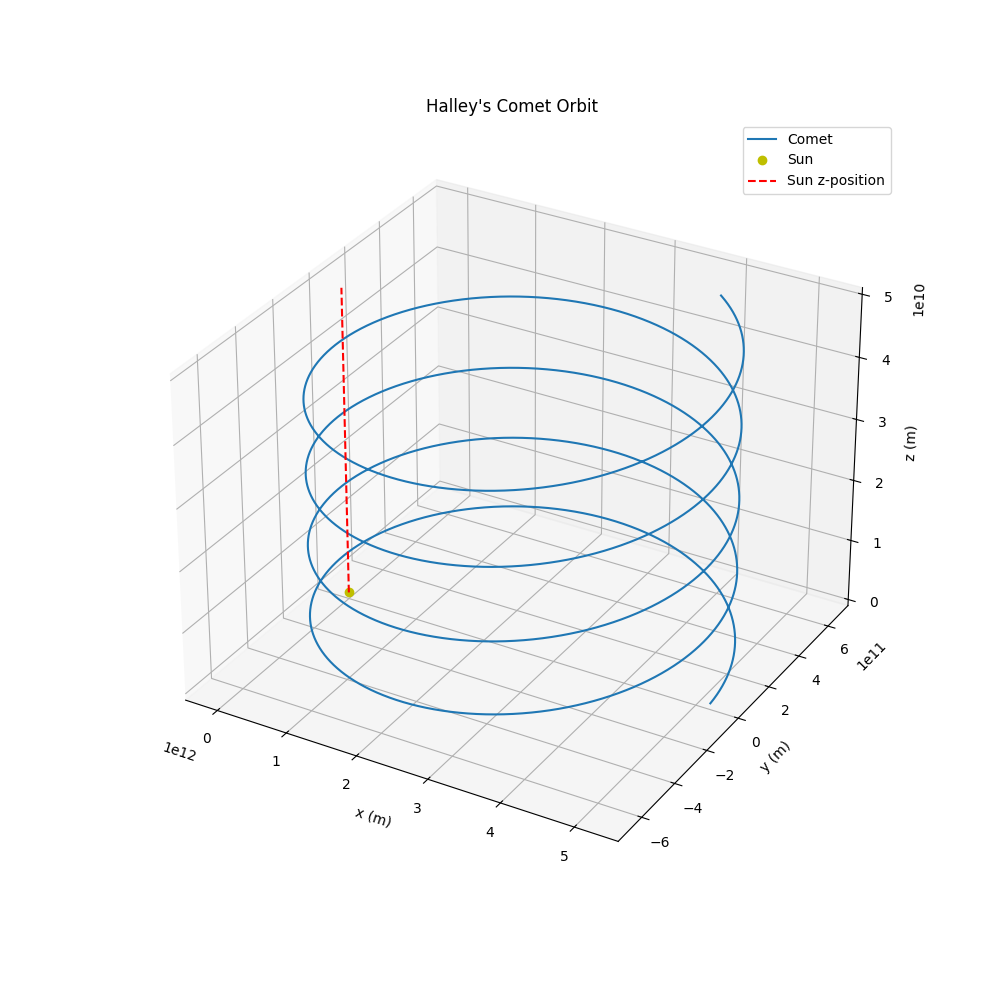
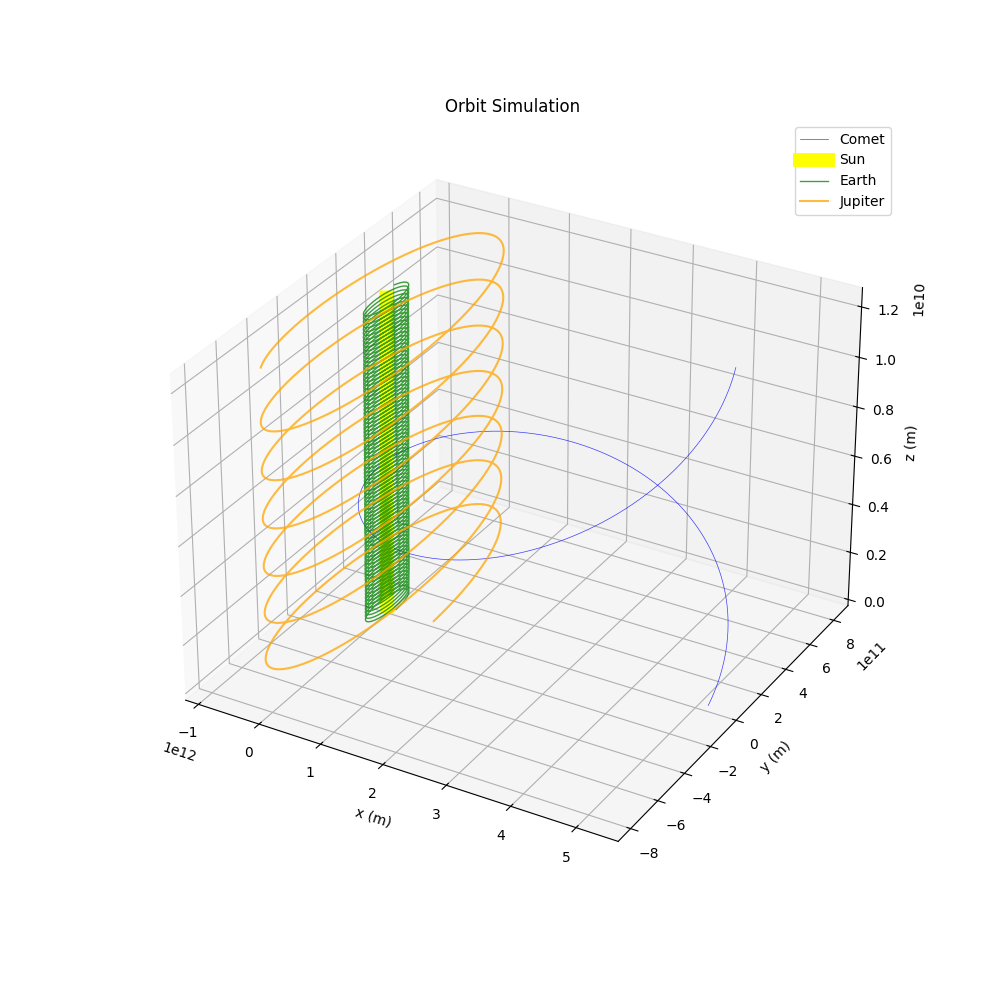
multiple

diff --git a/Coursework1/Courswork1MultipleObjects.py b/Coursework1/Courswork1MultipleObjects.py
@@ -1,0 +1,168 @@
+import numpy as np
+import matplotlib.pyplot as plt
+from mpl_toolkits.mplot3d import Axes3D
+from tqdm import tqdm
+
+def calculate_orbit(objects, initial_time_step=100, min_time_step=2000, max_steps=10000001, tolerance=1e-6):
+      '''
+      Calculate the orbit of multiple objects in 3D space.
+      @param objects: A list of dictionaries, each containing the
+            name, mass, initial x, y, z positions, initial
+            x, y, z velocities of an object.
+      @param initial_time_step: The initial time step for the simulation.
+      @param min_time_step: The minimum time step for the simulation.
+      @param max_steps: The maximum number of steps to simulate.
+      @param tolerance: The tolerance for the simulation.
+      @return: A dictionary containing the positions of each object
+            at each time step, the time at each step, and the time    
+            at which each object crosses the y-axis.
+      '''
+      # Defining constants
+      G = 6.67430e-11  
+
+      # Initialise arrays for each object
+      positions = {obj['name']: {'x': np.zeros(max_steps), 'y': np.zeros(max_steps), 'z': np.zeros(max_steps)} for obj in objects}
+      velocities = {obj['name']: {'x': np.zeros(max_steps), 'y': np.zeros(max_steps), 'z': np.zeros(max_steps)} for obj in objects}
+      time = np.zeros(max_steps)
+      
+      # Object initial conditions
+      for obj in objects:
+            positions[obj['name']]['x'][0] = obj['initial_x']
+            positions[obj['name']]['y'][0] = obj['initial_y']
+            positions[obj['name']]['z'][0] = obj['initial_z']
+            velocities[obj['name']]['x'][0] = 0
+            velocities[obj['name']]['y'][0] = obj['initial_velocity']
+            velocities[obj['name']]['z'][0] = obj['initial_z_velocity']
+      
+      time[0] = 0
+
+      time_step = initial_time_step
+      y_crossings = {obj['name']: [] for obj in objects}
+      
+      for i in tqdm(range(0, max_steps-1), desc="Calculating orbits"):
+            for obj in objects:
+                  name = obj['name']
+                  #radius = np.sqrt(positions[name]['x'][i]**2 + positions[name]['y'][i]**2 + positions[name]['z'][i]**2)
+                  
+                  # Calculate acceleration due to all other objects
+                  x_acceleration = 0
+                  y_acceleration = 0
+                  z_acceleration = 0
+
+                  # A bit much indentation but it'll do for now
+                  for other_obj in objects:
+                        if other_obj['name'] != name:
+                              other_radius = np.sqrt((positions[other_obj['name']]['x'][i] - positions[name]['x'][i])**2 + 
+                                                      (positions[other_obj['name']]['y'][i] - positions[name]['y'][i])**2 + 
+                                                      (positions[other_obj['name']]['z'][i] - positions[name]['z'][i])**2)
+                              x_acceleration += -G * other_obj['mass'] * (positions[name]['x'][i] - positions[other_obj['name']]['x'][i]) / other_radius**3
+                              y_acceleration += -G * other_obj['mass'] * (positions[name]['y'][i] - positions[other_obj['name']]['y'][i]) / other_radius**3
+                              z_acceleration += -G * other_obj['mass'] * (positions[name]['z'][i] - positions[other_obj['name']]['z'][i]) / other_radius**3
+                        
+                  velocities[name]['x'][i+1] = velocities[name]['x'][i] + x_acceleration * time_step
+                  velocities[name]['y'][i+1] = velocities[name]['y'][i] + y_acceleration * time_step
+                  velocities[name]['z'][i+1] = velocities[name]['z'][i] + z_acceleration * time_step
+                  positions[name]['x'][i+1] = positions[name]['x'][i] + velocities[name]['x'][i+1] * time_step
+                  positions[name]['y'][i+1] = positions[name]['y'][i] + velocities[name]['y'][i+1] * time_step
+                  positions[name]['z'][i+1] = positions[name]['z'][i] + velocities[name]['z'][i+1] * time_step
+                  
+                  # Check for y-axis crossing
+                  if positions[name]['y'][i] * positions[name]['y'][i+1] < 0:
+                        y_crossings[name].append(time[i])
+            
+            time[i+1] = time[i] + time_step
+
+      # Only return used values
+      return {name: {key: val[:i+1] for key, val in positions[name].items()} for name in positions}, time[:i+1], y_crossings
+
+
+def plot_orbit(positions, formatting):
+    fig = plt.figure(figsize=(20, 10))
+    
+    # 3D plot
+    ax1 = fig.add_subplot(121, projection='3d')
+    for name, pos in positions.items():
+        fmt = formatting.get(name, {'linewidth': 0.5, 'alpha': 0.75, 'color': 'black'})  # Default formatting
+        ax1.plot(pos['x'], pos['y'], pos['z'], label=name, **fmt)
+    
+    ax1.set_title("Orbit Simulation (3D)")
+    ax1.set_xlabel('x (m)')
+    ax1.set_ylabel('y (m)')
+    ax1.set_zlabel('z (m)')
+    ax1.legend(loc='upper right')
+    
+    # 2D plot
+    ax2 = fig.add_subplot(122)
+    for name, pos in positions.items():
+        fmt = formatting.get(name, {'linewidth': 0.5, 'alpha': 0.75, 'color': 'black'})  # Default formatting
+        ax2.plot(pos['x'], pos['y'], label=name, **fmt)
+    
+    ax2.set_title("Orbit Simulation (2D)")
+    ax2.set_xlabel('x (m)')
+    ax2.set_ylabel('y (m)')
+    ax2.set_aspect('equal', 'box')  # Ensure the x and y axes have the same scale
+
+    ax2.legend(loc='upper right')
+    
+    plt.savefig('orbit_plot_combined.png')  # Save the plot as an image file
+    plt.show()
+
+def main():
+      # Initial conditions for objects
+      objects = [
+      {'name': 'Halleys_Comet', 'mass': 2.2e14, 'initial_x': 5.2e12, 'initial_y': 0, 'initial_z': 0, 'initial_velocity': 880, 'initial_z_velocity': 5},
+      {'name': 'Sun', 'mass': 1.989e30, 'initial_x': 0, 'initial_y': 0, 'initial_z': 0, 'initial_velocity': 0, 'initial_z_velocity': 5},
+      {'name': 'Mercury', 'mass': 3.301e23, 'initial_x': 5.791e10, 'initial_y': 0, 'initial_z': 0, 'initial_velocity': 47400, 'initial_z_velocity': 5},
+      {'name': 'Venus', 'mass': 4.867e24, 'initial_x': 1.082e11, 'initial_y': 0, 'initial_z': 0, 'initial_velocity': 35020, 'initial_z_velocity': 5},
+      {'name': 'Earth', 'mass': 5.972e24, 'initial_x': 1.471e11, 'initial_y': 0, 'initial_z': 0, 'initial_velocity': 29780, 'initial_z_velocity': 5},
+      {'name': 'Mars', 'mass': 6.417e23, 'initial_x': 2.279e11, 'initial_y': 0, 'initial_z': 0, 'initial_velocity': 24070, 'initial_z_velocity': 5},
+      {'name': 'Jupiter', 'mass': 1.898e27, 'initial_x': 7.785e11, 'initial_y': 0, 'initial_z': 0, 'initial_velocity': 13070, 'initial_z_velocity': 5},
+      {'name': 'Saturn', 'mass': 5.683e26, 'initial_x': 1.433e12, 'initial_y': 0, 'initial_z': 0, 'initial_velocity': 9680, 'initial_z_velocity': 5},
+      {'name': 'Uranus', 'mass': 8.681e25, 'initial_x': 2.872e12, 'initial_y': 0, 'initial_z': 0, 'initial_velocity': 6800, 'initial_z_velocity': 5},
+      {'name': 'Neptune', 'mass': 1.024e26, 'initial_x': 4.495e12, 'initial_y': 0, 'initial_z': 0, 'initial_velocity': 5430, 'initial_z_velocity': 5}
+      ]
+
+      # Define custom formatting for each object
+      formatting = {
+            'Sun': {'linewidth': 4, 'alpha': 1.0, 'color': 'yellow'},
+            'Halleys_Comet': {'linewidth': 0.5, 'alpha': 0.75, 'color': 'blue'},
+            'Mercury': {'linewidth': 1, 'alpha': 0.75, 'color': 'gray'},
+            'Venus': {'linewidth': 1, 'alpha': 0.75, 'color': 'orange'},
+            'Earth': {'linewidth': 1, 'alpha': 0.75, 'color': 'green'},
+            'Mars': {'linewidth': 1, 'alpha': 0.75, 'color': 'red'},
+            'Jupiter': {'linewidth': 1.5, 'alpha': 0.75, 'color': 'orange'},
+            'Saturn': {'linewidth': 1.5, 'alpha': 0.75, 'color': 'gold'},
+            'Uranus': {'linewidth': 1.5, 'alpha': 0.75, 'color': 'lightblue'},
+            'Neptune': {'linewidth': 1.5, 'alpha': 0.75, 'color': 'blue'}
+      }
+
+      # Run simulation
+      positions, time, y_crossings = calculate_orbit(objects)
+      plot_orbit(positions, formatting)
+
+      # Calculate orbital period for each object
+      for name, crossings in y_crossings.items():
+            if len(crossings) > 1:
+                  # Calculate half-periods by taking the difference between consecutive crossings
+                  half_periods = [crossings[i+1] - crossings[i] for i in range(len(crossings) - 1)]
+                  
+                  # Convert half-periods from seconds to years
+                  half_periods_in_years = [period / (365.25 * 24 * 3600) for period in half_periods]
+                  
+                  # Calculate average half-period and standard deviation
+                  average_half_period = np.mean(half_periods_in_years)
+                  std_dev_half_period = np.std(half_periods_in_years)
+                  
+                  # Adjust to get full orbital period
+                  average_period = average_half_period * 2
+                  std_dev_period = std_dev_half_period * 2
+                  
+                  # Print results
+                  print(f"{name} - Average Period: {average_period:.2f} years, Standard Deviation: {std_dev_period:.2f} years")
+            else:
+                  print(f"{name} - Not enough crossings to calculate period")
+
+
+
+if __name__ == "__main__":
+    main()

diff --git a/Coursework1/Coursework1.py b/Coursework1/Coursework1.py
@@ -2,74 +2,66 @@ import numpy as np
 import matplotlib.pyplot as plt
 from mpl_toolkits.mplot3d import Axes3D
 
-# Constants
-G = 6.67430e-11  
-star_mass = 1.989e30     
-comet_mass = 2.2e14       
+def calculate_orbit(initial_radius, initial_velocity, initial_z_velocity, max_orbit_count, initial_time_step=1000, min_time_step=2000, max_steps=10000000, tolerance=1e-6):
+    # Constants
+    G = 6.67430e-11  
+    star_mass = 1.989e30     
+    comet_mass = 2.2e14       
 
-# Initial conditions
-initial_radius = 5.2e12      
-initial_velocity = 880       
-initial_z_velocity = 5  # Initial z-velocity
-max_orbit_count = 10  # Number of orbits to simulate
+    # Initialise arrays
+    x = np.zeros(max_steps)
+    y = np.zeros(max_steps)
+    z = np.zeros(max_steps)
+    x_velocity = np.zeros(max_steps)
+    y_velocity = np.zeros(max_steps)
+    time = np.zeros(max_steps)
+    
+    # Initialise Sun's z-position and z-velocity
+    sun_z = np.zeros(max_steps)
+    sun_z_velocity = np.zeros(max_steps)
+    
+    # Set initial conditions
+    x[0] = initial_radius
+    y[0] = 0
+    z[0] = 0
+    x_velocity[0] = 0
+    y_velocity[0] = initial_velocity
+    z_velocity = initial_z_velocity
+    time[0] = 0
+    
+    # Orbit completion parameters
+    orbit_completion_tolerance = initial_radius * 0.9999
+    min_points = 10000
+    time_step = initial_time_step
+    orbit_completions = 0
+    
+    for i in range(0, max_steps-1):
+        radius = np.sqrt(x[i]**2 + y[i]**2)
+        
+        if i > min_points and x[i] > orbit_completion_tolerance:
+            orbit_completions += 1
+            min_points += i
 
-def calculate_orbit(initial_time_step=1000, min_time_step=2000, max_steps=10000000, tolerance=1e-6):
-      # Initialise arrays
-      x = np.zeros(max_steps)
-      y = np.zeros(max_steps)
-      z = np.zeros(max_steps)
-      x_velocity = np.zeros(max_steps)
-      y_velocity = np.zeros(max_steps)
-      time = np.zeros(max_steps)
-      
-      # Initialise Sun's z-position and z-velocity
-      sun_z = np.zeros(max_steps)
-      sun_z_velocity = np.zeros(max_steps)
-      
-      # Set initial conditions
-      x[0] = initial_radius
-      y[0] = 0
-      z[0] = 0
-      x_velocity[0] = 0
-      y_velocity[0] = initial_velocity
-      z_velocity = initial_z_velocity
-      time[0] = 0
-      
-      # Orbit completion parameters
-      orbit_completion_tolerance = initial_radius * 0.9999
-      min_points = 10000
-      time_step = initial_time_step
-      orbit_completions = 0
-      
-      for i in range(0, max_steps-1):
-            radius = np.sqrt(x[i]**2 + y[i]**2)
-            
-            if i > min_points and x[i] > orbit_completion_tolerance:
+            if orbit_completions == max_orbit_count:
+                return x[:i+1], y[:i+1], z[:i+1], sun_z[:i+1], time[:i+1], orbit_completions
+        
+        # Calculate acceleration
+        x_acceleration = -G * star_mass * x[i] / radius**3
+        y_acceleration = -G * star_mass * y[i] / radius**3
+        
+        # Trial step
+        x_velocity[i+1] = x_velocity[i] + x_acceleration * time_step
+        y_velocity[i+1] = y_velocity[i] + y_acceleration * time_step
+        x[i+1] = x[i] + x_velocity[i+1] * time_step
+        y[i+1] = y[i] + y_velocity[i+1] * time_step
+        z[i+1] = z[i] + z_velocity * time_step
+        sun_z[i+1] = sun_z[i] + z_velocity * time_step  # Update Sun's z-position
+        time[i+1] = time[i] + time_step
 
-                  orbit_completions += 1
-                  min_points += i
+        i += 1
 
-                  if orbit_completions == max_orbit_count:
-                        return x[:i+1], y[:i+1], z[:i+1], sun_z[:i+1], time[:i+1]
-
-            
-            # Calculate acceleration
-            x_acceleration = -G * star_mass * x[i] / radius**3
-            y_acceleration = -G * star_mass * y[i] / radius**3
-            
-            # Trial step
-            x_velocity[i+1] = x_velocity[i] + x_acceleration * time_step
-            y_velocity[i+1] = y_velocity[i] + y_acceleration * time_step
-            x[i+1] = x[i] + x_velocity[i+1] * time_step
-            y[i+1] = y[i] + y_velocity[i+1] * time_step
-            z[i+1] = z[i] + z_velocity * time_step
-            sun_z[i+1] = sun_z[i] + z_velocity * time_step  # Update Sun's z-position
-            time[i+1] = time[i] + time_step
-
-            i += 1
-
-      # Only return used values
-      return x[:i+1], y[:i+1], z[:i+1], sun_z[:i+1], time[:i+1], orbit_completions
+    # Only return used values
+    return x[:i+1], y[:i+1], z[:i+1], sun_z[:i+1], time[:i+1], orbit_completions
 
 def plot_orbit(x, y, z, sun_z):
     fig = plt.figure(figsize=(10, 10))
@@ -85,10 +77,20 @@ def plot_orbit(x, y, z, sun_z):
     plt.savefig('orbit_plot_3d.png')  # Save the plot as an image file
     plt.show()
 
-# Run simulation
-x, y, z, sun_z, time , orbit_completions= calculate_orbit()
-plot_orbit(x, y, z, sun_z)
+def main():
+    # Initial conditions
+    initial_radius = 5.2e12      
+    initial_velocity = 880       
+    initial_z_velocity = 5  # Initial z-velocity
+    max_orbit_count = 10  # Number of orbits to simulate
 
-# Calculate orbital period
-period = time[-1] / (365.25 * 24 * 3600 * orbit_completions)  # Convert to years and divide by number of orbits
-print(f"Calculated orbital period: {period:.2f} years")
+    # Run simulation
+    x, y, z, sun_z, time, orbit_completions = calculate_orbit(initial_radius, initial_velocity, initial_z_velocity, max_orbit_count)
+    plot_orbit(x, y, z, sun_z)
+
+    # Calculate orbital period
+    period = time[-1] / (365.25 * 24 * 3600 * orbit_completions)  # Convert to years and divide by number of orbits
+    print(f"Calculated orbital period: {period:.2f} years")
+
+if __name__ == "__main__":
+    main()
